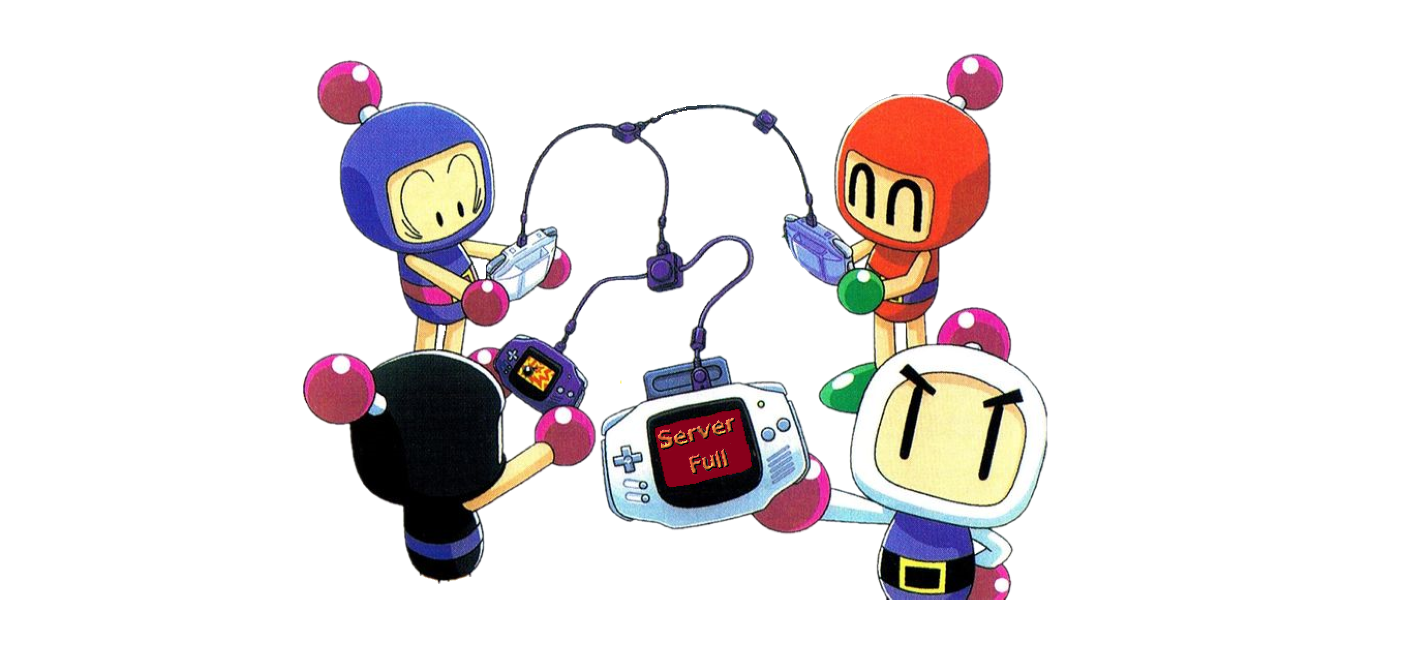
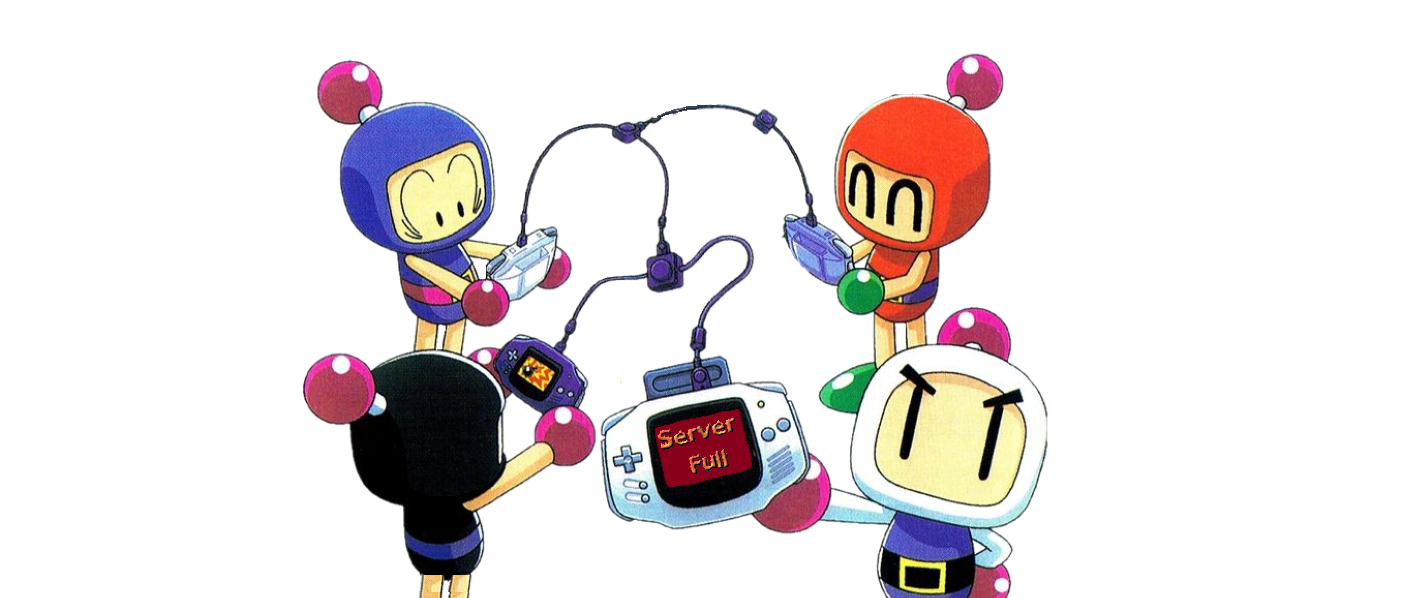
Added ServerFull Background

Changed region(s): [[0.1864, 0.0602, 0.7458, 1.0]]

diff --git a/XLPOOLsion-client/core/src/com/xlpoolsion/client/view/screens/ServerFullScreen.java b/XLPOOLsion-client/core/src/com/xlpoolsion/client/view/screens/ServerFullScreen.java
@@ -28,7 +28,7 @@ public class ServerFullScreen extends StageScreen {
         xlpooLsionClient.getAssetManager().load("ServerFull.png", Texture.class);
         xlpooLsionClient.getAssetManager().load("ServerFull2.png", Texture.class);
         xlpooLsionClient.getAssetManager().load("back-button-md.png", Texture.class);
-        xlpooLsionClient.getAssetManager().load("GreenBackground.png", Texture.class);
+        xlpooLsionClient.getAssetManager().load("ServerFullBackground.jpg", Texture.class);
         xlpooLsionClient.getAssetManager().finishLoading();
     }
     private void createAnimation() {
@@ -49,7 +49,7 @@ public class ServerFullScreen extends StageScreen {
     }
 
     private void addBackground() {
-        Image background = new Image((Texture) xlpooLsionClient.getAssetManager().get("GreenBackground.png"));
+        Image background = new Image((Texture) xlpooLsionClient.getAssetManager().get("ServerFullBackground.jpg"));
         background.setWidth(stage.getWidth());
         background.setHeight(stage.getHeight());
         stage.addActor(background);
